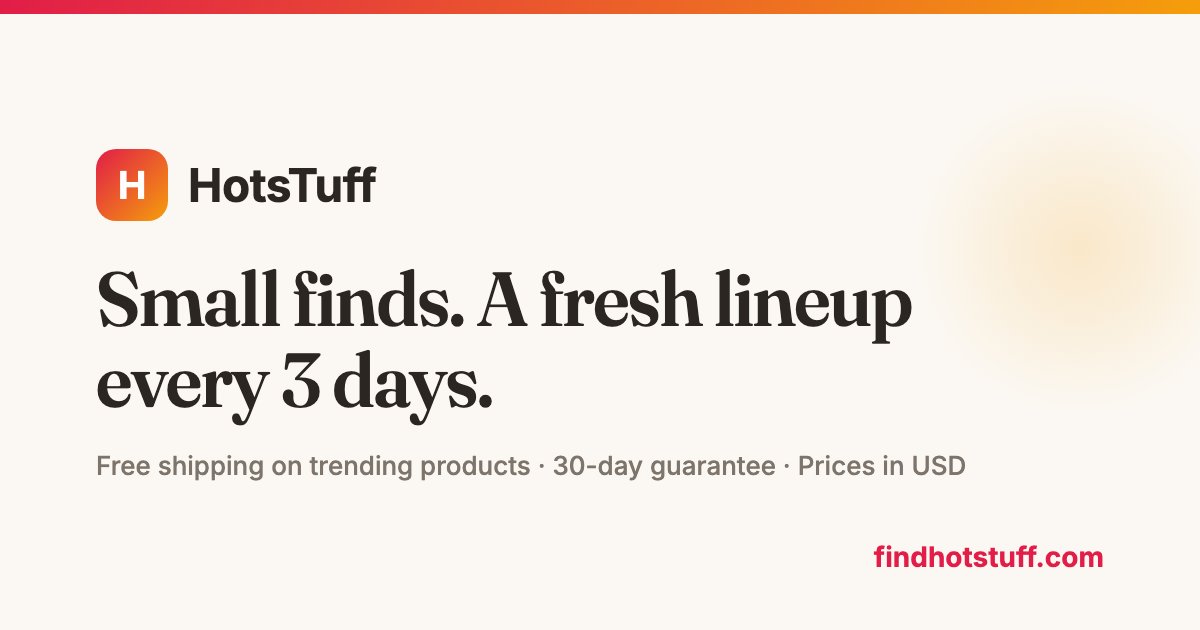
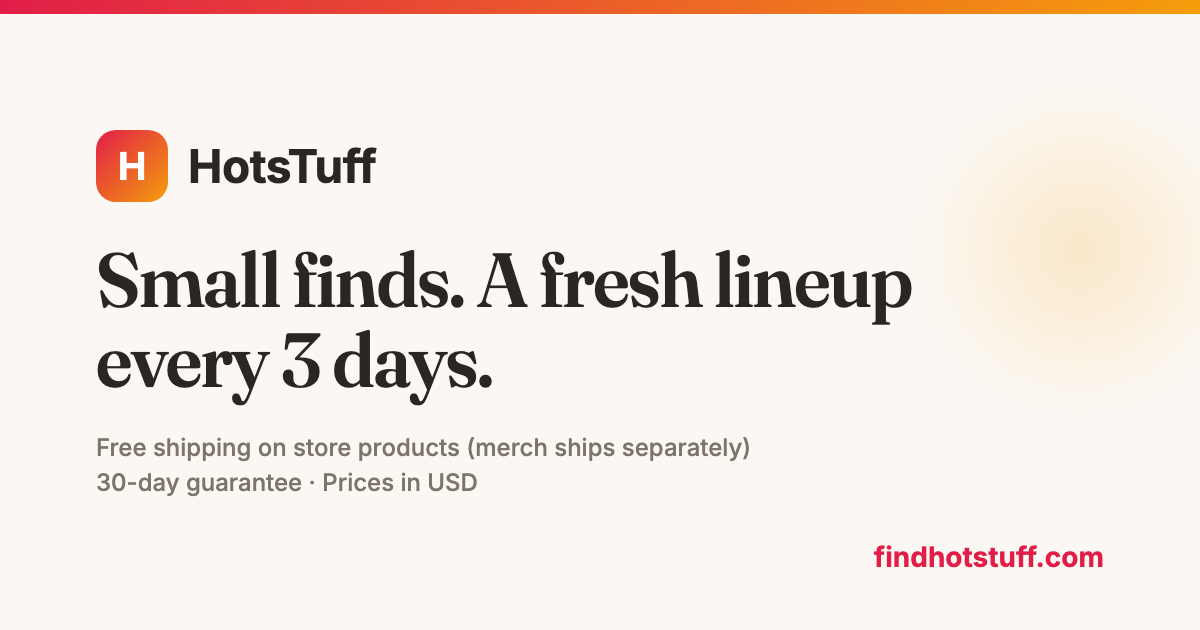
Free-shipping scope (Matthew YES via LC-Manager): 'Free shipping on store products · merch ships separately' everywhere (meta x3, announce bar, trust strip, app, category footers, share picture, pin text); phones get a short line that keeps 'not merch'; EN+FR; cache bumps

Changed region(s): [[0.0617, 0.3921, 0.8017, 0.7841], [0.0617, 0.181, 0.3392, 0.3619]]

diff --git a/index.html b/index.html
@@ -4,7 +4,7 @@
 <meta charset="UTF-8">
 <meta name="viewport" content="width=device-width, initial-scale=1.0">
 <title>HotsTuff — Small finds, a fresh lineup every 3 days</title>
-<meta name="description" content="HotsTuff rotates in a fresh lineup of about 200 finds every 3 days, picked from our supplier's trending list. Free shipping on trending products, secure Stripe checkout, 30-day guarantee.">
+<meta name="description" content="HotsTuff rotates in a fresh lineup of about 200 finds every 3 days, picked from our supplier's trending list. Free shipping on store products (merch ships separately), secure Stripe checkout, 30-day guarantee.">
 <meta name="theme-color" content="#191016">
 <meta name="google-site-verification" content="uGCs4KV_pJdwzYgL9iCSTngYpD6OFofH6-n4UVPiYGg">
 <meta name="p:domain_verify" content="34827d69d02f36fd8e87fd1f5d6efe65">
@@ -18,10 +18,10 @@
 <link rel="preconnect" href="https://fonts.googleapis.com">
 <link rel="preconnect" href="https://fonts.gstatic.com" crossorigin>
 <link rel="stylesheet" href="https://fonts.googleapis.com/css2?family=Fraunces:opsz,wght@9..144,500;9..144,600&display=swap">
-<link rel="stylesheet" href="styles.css?v=11">
+<link rel="stylesheet" href="styles.css?v=12">
 <meta property="og:type" content="website">
 <meta property="og:title" content="HotsTuff — Small finds, a fresh lineup every 3 days">
-<meta property="og:description" content="A fresh lineup of about 200 finds every 3 days, picked from our supplier's trending list. Free shipping on trending products, secure Stripe checkout, 30-day guarantee.">
+<meta property="og:description" content="A fresh lineup of about 200 finds every 3 days, picked from our supplier's trending list. Free shipping on store products (merch ships separately), secure Stripe checkout, 30-day guarantee.">
 <meta property="og:image" content="https://findhotstuff.com/assets/og-card.png">
 <meta property="og:url" content="https://findhotstuff.com/">
 <meta name="twitter:card" content="summary_large_image">
@@ -31,7 +31,7 @@
   "@context": "https://schema.org",
   "@type": "OnlineStore",
   "name": "HotsTuff",
-  "description": "A storefront of about 200 products from our supplier's trending list, rotated every 3 days. Free shipping on trending products, secure Stripe checkout, 30-day guarantee.",
+  "description": "A storefront of about 200 products from our supplier's trending list, rotated every 3 days. Free shipping on store products (merch ships separately), secure Stripe checkout, 30-day guarantee.",
   "url": "https://findhotstuff.com/",
   "logo": "https://findhotstuff.com/assets/icons/apple-touch-icon.png",
   "image": "https://findhotstuff.com/assets/og-card.png",
@@ -47,7 +47,7 @@
     </div>
   </noscript>
   <div class="announce" data-i18n="announce">
-    🚚 <b>Free shipping</b><span class="announce-detail"> on trending products</span><span class="announce-extra"> · 🔒 Secure Stripe checkout</span> · ↩ 30-day guarantee
+    🚚 <b>Free shipping</b><span class="announce-detail"> on store products · merch ships separately</span><span class="announce-short"> on store products, not merch</span><span class="announce-extra"> · 🔒 Secure Stripe checkout</span><span class="announce-guarantee"> · ↩ 30-day guarantee</span>
   </div>
   <header class="nav">
     <div class="nav-inner">
@@ -86,7 +86,7 @@
 
     <div class="trust-strip" aria-label="Why shop with confidence">
       <div class="trust-item"><span class="trust-icon">🔒</span><span data-i18n="trust-1"><b>Secure checkout</b><small>Payments handled by Stripe</small></span></div>
-      <div class="trust-item"><span class="trust-icon">🚚</span><span data-i18n="trust-2"><b>Free shipping</b><small>On trending products — 24 countries</small></span></div>
+      <div class="trust-item"><span class="trust-icon">🚚</span><span data-i18n="trust-2"><b>Free shipping<span class="trust-scope"> on store products, not merch</span></b><small>On store products — 24 countries · merch ships separately</small></span></div>
       <div class="trust-item"><span class="trust-icon">↩</span><span data-i18n="trust-3"><b>30-day guarantee</b><small>Full refund or free replacement</small></span></div>
       <div class="trust-item"><span class="trust-icon">💬</span><span data-i18n="trust-4"><b>Real human support</b><small>Replies within 1–2 business days</small></span></div>
     </div>
@@ -288,7 +288,7 @@
     </div>
   </footer>
 
-  <script src="i18n.js?v=11"></script>
+  <script src="i18n.js?v=12"></script>
   <script src="script.js?v=12"></script>
 <script data-goatcounter="https://theycallmemattyb.goatcounter.com/count" async src="//gc.zgo.at/count.js"></script>
 <script>

diff --git a/i18n.js b/i18n.js
@@ -11,7 +11,7 @@
 
 (function () {
   const FR = {
-    "announce": "🚚 <b>Livraison gratuite</b><span class=\"announce-detail\"> sur les produits tendance</span><span class=\"announce-extra\"> · 🔒 Paiement sécurisé Stripe</span> · ↩ Garantie 30 jours ou argent remis",
+    "announce": "🚚 <b>Livraison gratuite</b><span class=\"announce-detail\"> sur les produits du magasin · la marchandise HotsTuff est expédiée séparément</span><span class=\"announce-short\"> sur les produits du magasin, sauf la marchandise</span><span class=\"announce-extra\"> · 🔒 Paiement sécurisé Stripe</span><span class=\"announce-guarantee\"> · ↩ Garantie 30 jours ou argent remis</span>",
     "nav-trending": "Dernière sélection",
     "nav-how": "Comment ça marche",
     "nav-merch": "Merch <span class=\"nav-new\">Nouveau</span>",
@@ -42,7 +42,7 @@
     "expect": "📦 Expédié par notre fournisseur · traité en 1 à 3 jours ouvrables · livraison habituellement en 1 à 3 semaines · prix en USD · garantie de 30 jours · <a href=\"terms/\">conditions</a>",
     "hero-cta-automation": "✨ Automatisation pour votre entreprise",
     "trust-1": "<b>Paiement sécurisé</b><small>Transactions traitées par Stripe</small>",
-    "trust-2": "<b>Livraison gratuite</b><small>Sur les produits tendance — 24 pays</small>",
+    "trust-2": "<b>Livraison gratuite<span class=\"trust-scope\"> sur les produits du magasin, sauf la marchandise</span></b><small>Sur les produits du magasin — 24 pays · la marchandise HotsTuff est expédiée séparément</small>",
     "trust-3": "<b>Garantie 30 jours</b><small>Remboursement complet ou remplacement gratuit</small>",
     "trust-4": "<b>Un vrai humain au soutien</b><small>Réponse en 1 à 2 jours ouvrables</small>",
     "trending-title": "La dernière sélection",

diff --git a/c/pet/index.html b/c/pet/index.html
@@ -251,7 +251,7 @@
 </main>
 <nav class="sib"><div class="wrap">More categories: <a href="https://findhotstuff.com/c/jewelry/">Jewelry</a> · <a href="https://findhotstuff.com/c/fashion/">Fashion</a> · <a href="https://findhotstuff.com/c/kitchen/">Kitchen</a> · <a href="https://findhotstuff.com/c/home/">Home</a> · <a href="https://findhotstuff.com/c/fitness/">Fitness</a> · <a href="https://findhotstuff.com/c/bags/">Bags</a> · <a href="https://findhotstuff.com/c/footwear/">Footwear</a> · <a href="https://findhotstuff.com/c/beauty/">Beauty</a> · <a href="https://findhotstuff.com/c/wellness/">Wellness</a> · <a href="https://findhotstuff.com/c/electronics/">Electronics</a> · <a href="https://findhotstuff.com/c/toys/">Toys</a> · <a href="https://findhotstuff.com/c/baby/">Baby</a> · <a href="https://findhotstuff.com/c/auto/">Auto</a> · <a href="https://findhotstuff.com/gifts/">Gifts under $25</a></div></nav>
 <footer class="wrap">
-  Prices in USD · free shipping · 30-day guarantee ·
+  Prices in USD · free shipping on store products (merch ships separately) · 30-day guarantee ·
   <a href="https://findhotstuff.com/">see the full shop</a><br>
   Selection last refreshed 2026-11-04.
 </footer>

diff --git a/c/baby/index.html b/c/baby/index.html
@@ -133,7 +133,7 @@
 </main>
 <nav class="sib"><div class="wrap">More categories: <a href="https://findhotstuff.com/c/jewelry/">Jewelry</a> · <a href="https://findhotstuff.com/c/fashion/">Fashion</a> · <a href="https://findhotstuff.com/c/pet/">Pet</a> · <a href="https://findhotstuff.com/c/kitchen/">Kitchen</a> · <a href="https://findhotstuff.com/c/home/">Home</a> · <a href="https://findhotstuff.com/c/fitness/">Fitness</a> · <a href="https://findhotstuff.com/c/bags/">Bags</a> · <a href="https://findhotstuff.com/c/footwear/">Footwear</a> · <a href="https://findhotstuff.com/c/beauty/">Beauty</a> · <a href="https://findhotstuff.com/c/wellness/">Wellness</a> · <a href="https://findhotstuff.com/c/electronics/">Electronics</a> · <a href="https://findhotstuff.com/c/toys/">Toys</a> · <a href="https://findhotstuff.com/c/auto/">Auto</a> · <a href="https://findhotstuff.com/gifts/">Gifts under $25</a></div></nav>
 <footer class="wrap">
-  Prices in USD · free shipping · 30-day guarantee ·
+  Prices in USD · free shipping on store products (merch ships separately) · 30-day guarantee ·
   <a href="https://findhotstuff.com/">see the full shop</a><br>
   Selection last refreshed 2026-11-04.
 </footer>

diff --git a/c/bags/index.html b/c/bags/index.html
@@ -126,7 +126,7 @@
 </main>
 <nav class="sib"><div class="wrap">More categories: <a href="https://findhotstuff.com/c/jewelry/">Jewelry</a> · <a href="https://findhotstuff.com/c/fashion/">Fashion</a> · <a href="https://findhotstuff.com/c/pet/">Pet</a> · <a href="https://findhotstuff.com/c/kitchen/">Kitchen</a> · <a href="https://findhotstuff.com/c/home/">Home</a> · <a href="https://findhotstuff.com/c/fitness/">Fitness</a> · <a href="https://findhotstuff.com/c/footwear/">Footwear</a> · <a href="https://findhotstuff.com/c/beauty/">Beauty</a> · <a href="https://findhotstuff.com/c/wellness/">Wellness</a> · <a href="https://findhotstuff.com/c/electronics/">Electronics</a> · <a href="https://findhotstuff.com/c/toys/">Toys</a> · <a href="https://findhotstuff.com/c/baby/">Baby</a> · <a href="https://findhotstuff.com/c/auto/">Auto</a> · <a href="https://findhotstuff.com/gifts/">Gifts under $25</a></div></nav>
 <footer class="wrap">
-  Prices in USD · free shipping · 30-day guarantee ·
+  Prices in USD · free shipping on store products (merch ships separately) · 30-day guarantee ·
   <a href="https://findhotstuff.com/">see the full shop</a><br>
   Selection last refreshed 2026-11-04.
 </footer>

diff --git a/c/home/index.html b/c/home/index.html
@@ -189,7 +189,7 @@
 </main>
 <nav class="sib"><div class="wrap">More categories: <a href="https://findhotstuff.com/c/jewelry/">Jewelry</a> · <a href="https://findhotstuff.com/c/fashion/">Fashion</a> · <a href="https://findhotstuff.com/c/pet/">Pet</a> · <a href="https://findhotstuff.com/c/kitchen/">Kitchen</a> · <a href="https://findhotstuff.com/c/fitness/">Fitness</a> · <a href="https://findhotstuff.com/c/bags/">Bags</a> · <a href="https://findhotstuff.com/c/footwear/">Footwear</a> · <a href="https://findhotstuff.com/c/beauty/">Beauty</a> · <a href="https://findhotstuff.com/c/wellness/">Wellness</a> · <a href="https://findhotstuff.com/c/electronics/">Electronics</a> · <a href="https://findhotstuff.com/c/toys/">Toys</a> · <a href="https://findhotstuff.com/c/baby/">Baby</a> · <a href="https://findhotstuff.com/c/auto/">Auto</a> · <a href="https://findhotstuff.com/gifts/">Gifts under $25</a></div></nav>
 <footer class="wrap">
-  Prices in USD · free shipping · 30-day guarantee ·
+  Prices in USD · free shipping on store products (merch ships separately) · 30-day guarantee ·
   <a href="https://findhotstuff.com/">see the full shop</a><br>
   Selection last refreshed 2026-11-04.
 </footer>

diff --git a/c/toys/index.html b/c/toys/index.html
@@ -152,7 +152,7 @@
 </main>
 <nav class="sib"><div class="wrap">More categories: <a href="https://findhotstuff.com/c/jewelry/">Jewelry</a> · <a href="https://findhotstuff.com/c/fashion/">Fashion</a> · <a href="https://findhotstuff.com/c/pet/">Pet</a> · <a href="https://findhotstuff.com/c/kitchen/">Kitchen</a> · <a href="https://findhotstuff.com/c/home/">Home</a> · <a href="https://findhotstuff.com/c/fitness/">Fitness</a> · <a href="https://findhotstuff.com/c/bags/">Bags</a> · <a href="https://findhotstuff.com/c/footwear/">Footwear</a> · <a href="https://findhotstuff.com/c/beauty/">Beauty</a> · <a href="https://findhotstuff.com/c/wellness/">Wellness</a> · <a href="https://findhotstuff.com/c/electronics/">Electronics</a> · <a href="https://findhotstuff.com/c/baby/">Baby</a> · <a href="https://findhotstuff.com/c/auto/">Auto</a> · <a href="https://findhotstuff.com/gifts/">Gifts under $25</a></div></nav>
 <footer class="wrap">
-  Prices in USD · free shipping · 30-day guarantee ·
+  Prices in USD · free shipping on store products (merch ships separately) · 30-day guarantee ·
   <a href="https://findhotstuff.com/">see the full shop</a><br>
   Selection last refreshed 2026-11-04.
 </footer>

diff --git a/c/auto/index.html b/c/auto/index.html
@@ -85,7 +85,7 @@
 </main>
 <nav class="sib"><div class="wrap">More categories: <a href="https://findhotstuff.com/c/jewelry/">Jewelry</a> · <a href="https://findhotstuff.com/c/fashion/">Fashion</a> · <a href="https://findhotstuff.com/c/pet/">Pet</a> · <a href="https://findhotstuff.com/c/kitchen/">Kitchen</a> · <a href="https://findhotstuff.com/c/home/">Home</a> · <a href="https://findhotstuff.com/c/fitness/">Fitness</a> · <a href="https://findhotstuff.com/c/bags/">Bags</a> · <a href="https://findhotstuff.com/c/footwear/">Footwear</a> · <a href="https://findhotstuff.com/c/beauty/">Beauty</a> · <a href="https://findhotstuff.com/c/wellness/">Wellness</a> · <a href="https://findhotstuff.com/c/electronics/">Electronics</a> · <a href="https://findhotstuff.com/c/toys/">Toys</a> · <a href="https://findhotstuff.com/c/baby/">Baby</a> · <a href="https://findhotstuff.com/gifts/">Gifts under $25</a></div></nav>
 <footer class="wrap">
-  Prices in USD · free shipping · 30-day guarantee ·
+  Prices in USD · free shipping on store products (merch ships separately) · 30-day guarantee ·
   <a href="https://findhotstuff.com/">see the full shop</a><br>
   Selection last refreshed 2026-11-04.
 </footer>

diff --git a/c/beauty/index.html b/c/beauty/index.html
@@ -173,7 +173,7 @@
 </main>
 <nav class="sib"><div class="wrap">More categories: <a href="https://findhotstuff.com/c/jewelry/">Jewelry</a> · <a href="https://findhotstuff.com/c/fashion/">Fashion</a> · <a href="https://findhotstuff.com/c/pet/">Pet</a> · <a href="https://findhotstuff.com/c/kitchen/">Kitchen</a> · <a href="https://findhotstuff.com/c/home/">Home</a> · <a href="https://findhotstuff.com/c/fitness/">Fitness</a> · <a href="https://findhotstuff.com/c/bags/">Bags</a> · <a href="https://findhotstuff.com/c/footwear/">Footwear</a> · <a href="https://findhotstuff.com/c/wellness/">Wellness</a> · <a href="https://findhotstuff.com/c/electronics/">Electronics</a> · <a href="https://findhotstuff.com/c/toys/">Toys</a> · <a href="https://findhotstuff.com/c/baby/">Baby</a> · <a href="https://findhotstuff.com/c/auto/">Auto</a> · <a href="https://findhotstuff.com/gifts/">Gifts under $25</a></div></nav>
 <footer class="wrap">
-  Prices in USD · free shipping · 30-day guarantee ·
+  Prices in USD · free shipping on store products (merch ships separately) · 30-day guarantee ·
   <a href="https://findhotstuff.com/">see the full shop</a><br>
   Selection last refreshed 2026-11-04.
 </footer>

diff --git a/c/fashion/index.html b/c/fashion/index.html
@@ -300,7 +300,7 @@
 </main>
 <nav class="sib"><div class="wrap">More categories: <a href="https://findhotstuff.com/c/jewelry/">Jewelry</a> · <a href="https://findhotstuff.com/c/pet/">Pet</a> · <a href="https://findhotstuff.com/c/kitchen/">Kitchen</a> · <a href="https://findhotstuff.com/c/home/">Home</a> · <a href="https://findhotstuff.com/c/fitness/">Fitness</a> · <a href="https://findhotstuff.com/c/bags/">Bags</a> · <a href="https://findhotstuff.com/c/footwear/">Footwear</a> · <a href="https://findhotstuff.com/c/beauty/">Beauty</a> · <a href="https://findhotstuff.com/c/wellness/">Wellness</a> · <a href="https://findhotstuff.com/c/electronics/">Electronics</a> · <a href="https://findhotstuff.com/c/toys/">Toys</a> · <a href="https://findhotstuff.com/c/baby/">Baby</a> · <a href="https://findhotstuff.com/c/auto/">Auto</a> · <a href="https://findhotstuff.com/gifts/">Gifts under $25</a></div></nav>
 <footer class="wrap">
-  Prices in USD · free shipping · 30-day guarantee ·
+  Prices in USD · free shipping on store products (merch ships separately) · 30-day guarantee ·
   <a href="https://findhotstuff.com/">see the full shop</a><br>
   Selection last refreshed 2026-11-04.
 </footer>

diff --git a/c/fitness/index.html b/c/fitness/index.html
@@ -121,7 +121,7 @@
 </main>
 <nav class="sib"><div class="wrap">More categories: <a href="https://findhotstuff.com/c/jewelry/">Jewelry</a> · <a href="https://findhotstuff.com/c/fashion/">Fashion</a> · <a href="https://findhotstuff.com/c/pet/">Pet</a> · <a href="https://findhotstuff.com/c/kitchen/">Kitchen</a> · <a href="https://findhotstuff.com/c/home/">Home</a> · <a href="https://findhotstuff.com/c/bags/">Bags</a> · <a href="https://findhotstuff.com/c/footwear/">Footwear</a> · <a href="https://findhotstuff.com/c/beauty/">Beauty</a> · <a href="https://findhotstuff.com/c/wellness/">Wellness</a> · <a href="https://findhotstuff.com/c/electronics/">Electronics</a> · <a href="https://findhotstuff.com/c/toys/">Toys</a> · <a href="https://findhotstuff.com/c/baby/">Baby</a> · <a href="https://findhotstuff.com/c/auto/">Auto</a> · <a href="https://findhotstuff.com/gifts/">Gifts under $25</a></div></nav>
 <footer class="wrap">
-  Prices in USD · free shipping · 30-day guarantee ·
+  Prices in USD · free shipping on store products (merch ships separately) · 30-day guarantee ·
   <a href="https://findhotstuff.com/">see the full shop</a><br>
   Selection last refreshed 2026-11-04.
 </footer>

diff --git a/c/jewelry/index.html b/c/jewelry/index.html
@@ -430,7 +430,7 @@
 </main>
 <nav class="sib"><div class="wrap">More categories: <a href="https://findhotstuff.com/c/fashion/">Fashion</a> · <a href="https://findhotstuff.com/c/pet/">Pet</a> · <a href="https://findhotstuff.com/c/kitchen/">Kitchen</a> · <a href="https://findhotstuff.com/c/home/">Home</a> · <a href="https://findhotstuff.com/c/fitness/">Fitness</a> · <a href="https://findhotstuff.com/c/bags/">Bags</a> · <a href="https://findhotstuff.com/c/footwear/">Footwear</a> · <a href="https://findhotstuff.com/c/beauty/">Beauty</a> · <a href="https://findhotstuff.com/c/wellness/">Wellness</a> · <a href="https://findhotstuff.com/c/electronics/">Electronics</a> · <a href="https://findhotstuff.com/c/toys/">Toys</a> · <a href="https://findhotstuff.com/c/baby/">Baby</a> · <a href="https://findhotstuff.com/c/auto/">Auto</a> · <a href="https://findhotstuff.com/gifts/">Gifts under $25</a></div></nav>
 <footer class="wrap">
-  Prices in USD · free shipping · 30-day guarantee ·
+  Prices in USD · free shipping on store products (merch ships separately) · 30-day guarantee ·
   <a href="https://findhotstuff.com/">see the full shop</a><br>
   Selection last refreshed 2026-11-04.
 </footer>
